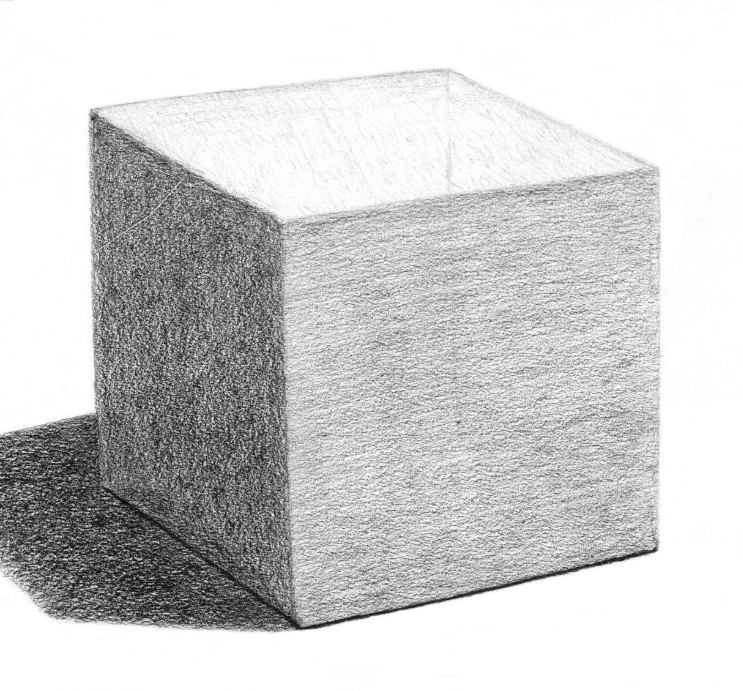
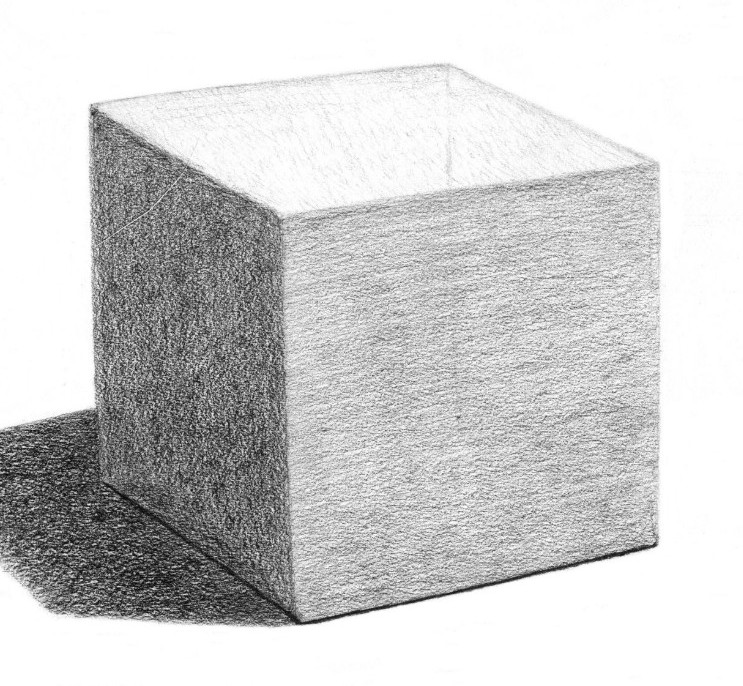
References Page formatting

diff --git a/src/pages/Reference.vue b/src/pages/Reference.vue
@@ -2,15 +2,11 @@
   <q-page padding>
     <div class="text-h4 q-mb-lg">Definitions</div>
 
-    <div class="row q-col-gutter-lg">
+    <div class="row q-col-gutter-md" style="background-color: #FDECEC; padding-bottom: 16px; padding-right: 16px;">
       <!-- Bananas -->
 
       <div class="col-12 col-sm-6 col-md-4 col-lg-3">
         <q-card>
-          <q-card-section>
-            <div class="text-h6 text-weight-bold">Cubes</div>
-          </q-card-section>
-
           <q-card-section>
             <img
               src="/Cubes.jpg"
@@ -25,6 +21,10 @@
             transition-show="jump-down"
             transition-hide="jump-up"
           >
+            <template v-slot:header>
+              <div class="text-h6 text-weight-bold">Cubes</div>
+            </template>
+
             <q-card-section>
               If the cube you've envisioned is large, you're likely a very confident person. If it's
               small, you're most likely shy and modest.<br />
@@ -43,10 +43,6 @@
       <div class="col-12 col-sm-6 col-md-4 col-lg-3">
         <q-card>
           <q-card-section>
-            <div class="text-h6 text-weight-bold">Ladder</div>
-          </q-card-section>
-
-          <q-card-section>
             <img
               src="/Ladder.jpg"
               alt="Ladder"
@@ -59,6 +55,9 @@
             transition-show="jump-down"
             transition-hide="jump-up"
           >
+            <template v-slot:header>
+              <div class="text-h6 text-weight-bold">Ladder</div>
+            </template>
             <q-card-section>
               If you've envisioned the ladder touching the cube, this means you're very connected to
               your friends and rely on them for support. If the ladder is detached, this means you
@@ -78,10 +77,6 @@
       <div class="col-12 col-sm-6 col-md-4 col-lg-3">
         <q-card>
           <q-card-section>
-            <div class="text-h6 text-weight-bold">Horse</div>
-          </q-card-section>
-
-          <q-card-section>
             <img
               src="/Horse.jpg"
               alt="Horse"
@@ -94,6 +89,9 @@
             transition-show="jump-down"
             transition-hide="jump-up"
           >
+            <template v-slot:header>
+              <div class="text-h6 text-weight-bold">Horse</div>
+            </template>
             <q-card-section>
               If the horse you imagined is a strong workhorse, that means your ideal partner is
               hardworking and reliable. If you've imagined a more delicate horse, that means your
@@ -111,10 +109,6 @@
       <div class="col-12 col-sm-6 col-md-4 col-lg-3">
         <q-card>
           <q-card-section>
-            <div class="text-h6 text-weight-bold">Storm</div>
-          </q-card-section>
-
-          <q-card-section>
             <img
               src="/Storm.jpg"
               alt="Storm"
@@ -127,6 +121,9 @@
             transition-show="jump-down"
             transition-hide="jump-up"
           >
+            <template v-slot:header>
+              <div class="text-h6 text-weight-bold">Storm</div>
+            </template>
             <q-card-section>
               Is the storm you imagined far off in the distance? That means you're living life with
               little worry. If the storm is close to the cube, you're ready to face conflict.<br />
@@ -141,10 +138,6 @@
       <div class="col-12 col-sm-6 col-md-4 col-lg-3">
         <q-card>
           <q-card-section>
-            <div class="text-h6 text-weight-bold">Flowers</div>
-          </q-card-section>
-
-          <q-card-section>
             <img
               src="/Flowers.jpg"
               alt="Flowers"
@@ -157,6 +150,9 @@
             transition-show="jump-down"
             transition-hide="jump-up"
           >
+            <template v-slot:header>
+              <div class="text-h6 text-weight-bold">Flowers</div>
+            </template>
             <q-card-section>
               The number of flowers you imagined represent the number of children you would like to
               have. If the flowers are close to the cube, it means you desire a close relationship
@@ -168,19 +164,18 @@
         </q-card>
       </div>
     </div>
-    <div class="row q-col-gutter-md q-mt-xl">
+    <div class="row q-col-gutter-md" style="background-color: #E96B67; margin-top: 4px; padding-right: 16px;">
       <div class="col-12 col-md-6">
         <q-card flat bordered>
-          <q-card-section>
-            <div class="text-subtitle1 text-weight-bold">Related Resources</div>
-          </q-card-section>
-
           <q-expansion-item
             expand-icon="keyboard_arrow_down"
             expanded-icon="keyboard_arrow_up"
             transition-show="jump-down"
             transition-hide="jump-up"
           >
+            <template v-slot:header>
+              <div class="text-subtitle1 text-weight-bold">Related Resources</div>
+            </template>
             <q-card-section>
               <div class="text-weight-bold">Teal Swan Article</div>
               <a
@@ -215,7 +210,7 @@
           </q-expansion-item>
         </q-card>
       </div>
-      <div class="col-12 col-sm-6 col-md-4 col-lg-3">
+      <div class="col-12 col-md-6">
         <q-card>
           <q-card-section>
             <div class="text-h6 text-weight-bold">The Cube</div>

diff --git a/src/layouts/MainLayout.vue b/src/layouts/MainLayout.vue
@@ -2,8 +2,6 @@
   <q-layout view="lHh Lpr lFf">
     <q-header elevated>
       <q-toolbar>
-        <q-btn flat dense round icon="menu" aria-label="Menu" @click="toggleLeftDrawer" />
-
         <q-toolbar-title> Quasar App </q-toolbar-title>
 
         <q-btn flat label="IndexPage" to="/" />
@@ -16,72 +14,10 @@
       </q-toolbar>
     </q-header>
 
-    <q-drawer v-model="leftDrawerOpen" show-if-above bordered>
-      <q-list>
-        <q-item-label header> Essential Links </q-item-label>
-
-        <EssentialLink v-for="link in linksList" :key="link.title" v-bind="link" />
-      </q-list>
-    </q-drawer>
-
     <q-page-container>
       <router-view />
     </q-page-container>
   </q-layout>
 </template>
 
-<script setup>
-import { ref } from 'vue'
-import EssentialLink from 'components/EssentialLink.vue'
-
-const linksList = [
-  {
-    title: 'Docs',
-    caption: 'quasar.dev',
-    icon: 'school',
-    link: 'https://quasar.dev',
-  },
-  {
-    title: 'Github',
-    caption: 'github.com/quasarframework',
-    icon: 'code',
-    link: 'https://github.com/quasarframework',
-  },
-  {
-    title: 'Discord Chat Channel',
-    caption: 'chat.quasar.dev',
-    icon: 'chat',
-    link: 'https://chat.quasar.dev',
-  },
-  {
-    title: 'Forum',
-    caption: 'forum.quasar.dev',
-    icon: 'record_voice_over',
-    link: 'https://forum.quasar.dev',
-  },
-  {
-    title: 'Twitter',
-    caption: '@quasarframework',
-    icon: 'rss_feed',
-    link: 'https://twitter.quasar.dev',
-  },
-  {
-    title: 'Facebook',
-    caption: '@QuasarFramework',
-    icon: 'public',
-    link: 'https://facebook.quasar.dev',
-  },
-  {
-    title: 'Quasar Awesome',
-    caption: 'Community Quasar projects',
-    icon: 'favorite',
-    link: 'https://awesome.quasar.dev',
-  },
-]
-
-const leftDrawerOpen = ref(false)
-
-function toggleLeftDrawer() {
-  leftDrawerOpen.value = !leftDrawerOpen.value
-}
-</script>
+<script setup></script>
